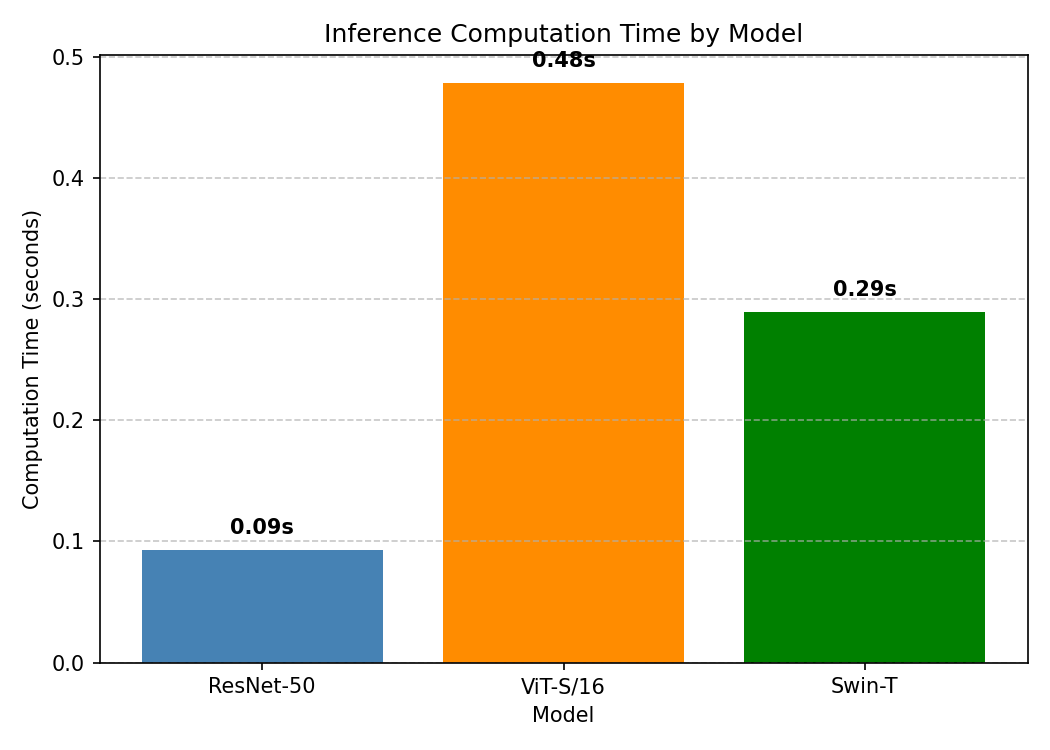
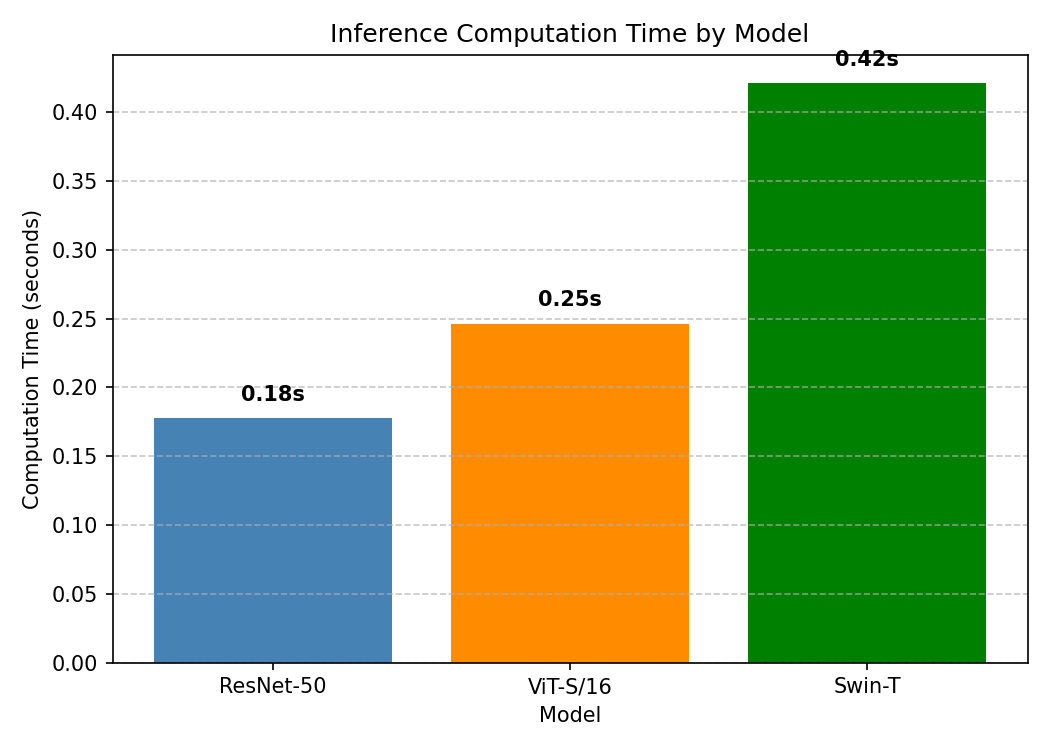
Rerun with full EuroSAT, ViT increased to 25 epochs, updated results and graphs

diff --git a/vit.py b/vit.py
@@ -3,7 +3,7 @@ import torch
 import pandas as pd
 from torch import nn
 from torch.utils.data import DataLoader
-from torchgeo.datasets import EuroSAT100
+from torchgeo.datasets import EuroSAT
 from torchgeo.models import vit_small_patch16_224, ViTSmall16_Weights
 from sklearn.metrics import accuracy_score, precision_score, recall_score, f1_score
 import torch.nn.functional as F
@@ -14,8 +14,8 @@ print(f"Using device: {device}")
 
 # Dataset
 print("Loading EuroSAT dataset...")
-train_dataset = EuroSAT100(root="./data", split="train", download=True)
-test_dataset = EuroSAT100(root="./data", split="test", download=True)
+train_dataset = EuroSAT(root="./data", split="train", download=True)
+test_dataset = EuroSAT(root="./data", split="test", download=True)
 train_loader = DataLoader(train_dataset, batch_size=32, shuffle=True, num_workers=0)
 test_loader = DataLoader(test_dataset, batch_size=32, shuffle=False, num_workers=0)
 
@@ -31,7 +31,7 @@ print("Fine-tuning model on EuroSAT training data...")
 criterion = nn.CrossEntropyLoss()
 optimizer = torch.optim.Adam(model.parameters(), lr=1e-4)
 
-EPOCHS = 15
+EPOCHS = 25
 for epoch in range(EPOCHS):
     model.train()
     running_loss = 0.0

diff --git a/swin.py b/swin.py
@@ -3,7 +3,7 @@ import torch
 import pandas as pd
 from torch import nn
 from torch.utils.data import DataLoader
-from torchgeo.datasets import EuroSAT100
+from torchgeo.datasets import EuroSAT
 from torchgeo.models import swin_v2_t, Swin_V2_T_Weights
 from sklearn.metrics import accuracy_score, precision_score, recall_score, f1_score
 import torch.nn.functional as F
@@ -19,8 +19,8 @@ BAND_INDICES = [3, 2, 1, 4, 5, 6, 7, 11, 12]
 
 # Dataset
 print("Loading EuroSAT dataset...")
-train_dataset = EuroSAT100(root="./data", split="train", download=True)
-test_dataset = EuroSAT100(root="./data", split="test", download=True)
+train_dataset = EuroSAT(root="./data", split="train", download=True)
+test_dataset = EuroSAT(root="./data", split="test", download=True)
 train_loader = DataLoader(train_dataset, batch_size=32, shuffle=True, num_workers=0)
 test_loader = DataLoader(test_dataset, batch_size=32, shuffle=False, num_workers=0)
 

diff --git a/resnet50.py b/resnet50.py
@@ -3,7 +3,7 @@ import torch
 import pandas as pd
 from torch import nn
 from torch.utils.data import DataLoader
-from torchgeo.datasets import EuroSAT100
+from torchgeo.datasets import EuroSAT
 from torchgeo.models import resnet50, ResNet50_Weights
 from sklearn.metrics import accuracy_score, precision_score, recall_score, f1_score
 
@@ -13,8 +13,8 @@ print(f"Using device: {device}")
 
 #Dataset
 print("Loading EuroSAT dataset...")
-train_dataset = EuroSAT100(root="./data", split="train", download=True)
-test_dataset = EuroSAT100(root="./data", split="test", download=True)
+train_dataset = EuroSAT(root="./data", split="train", download=True)
+test_dataset = EuroSAT(root="./data", split="test", download=True)
 train_loader = DataLoader(train_dataset, batch_size=32, shuffle=True, num_workers=0)
 test_loader = DataLoader(test_dataset, batch_size=32, shuffle=False, num_workers=0)
 
